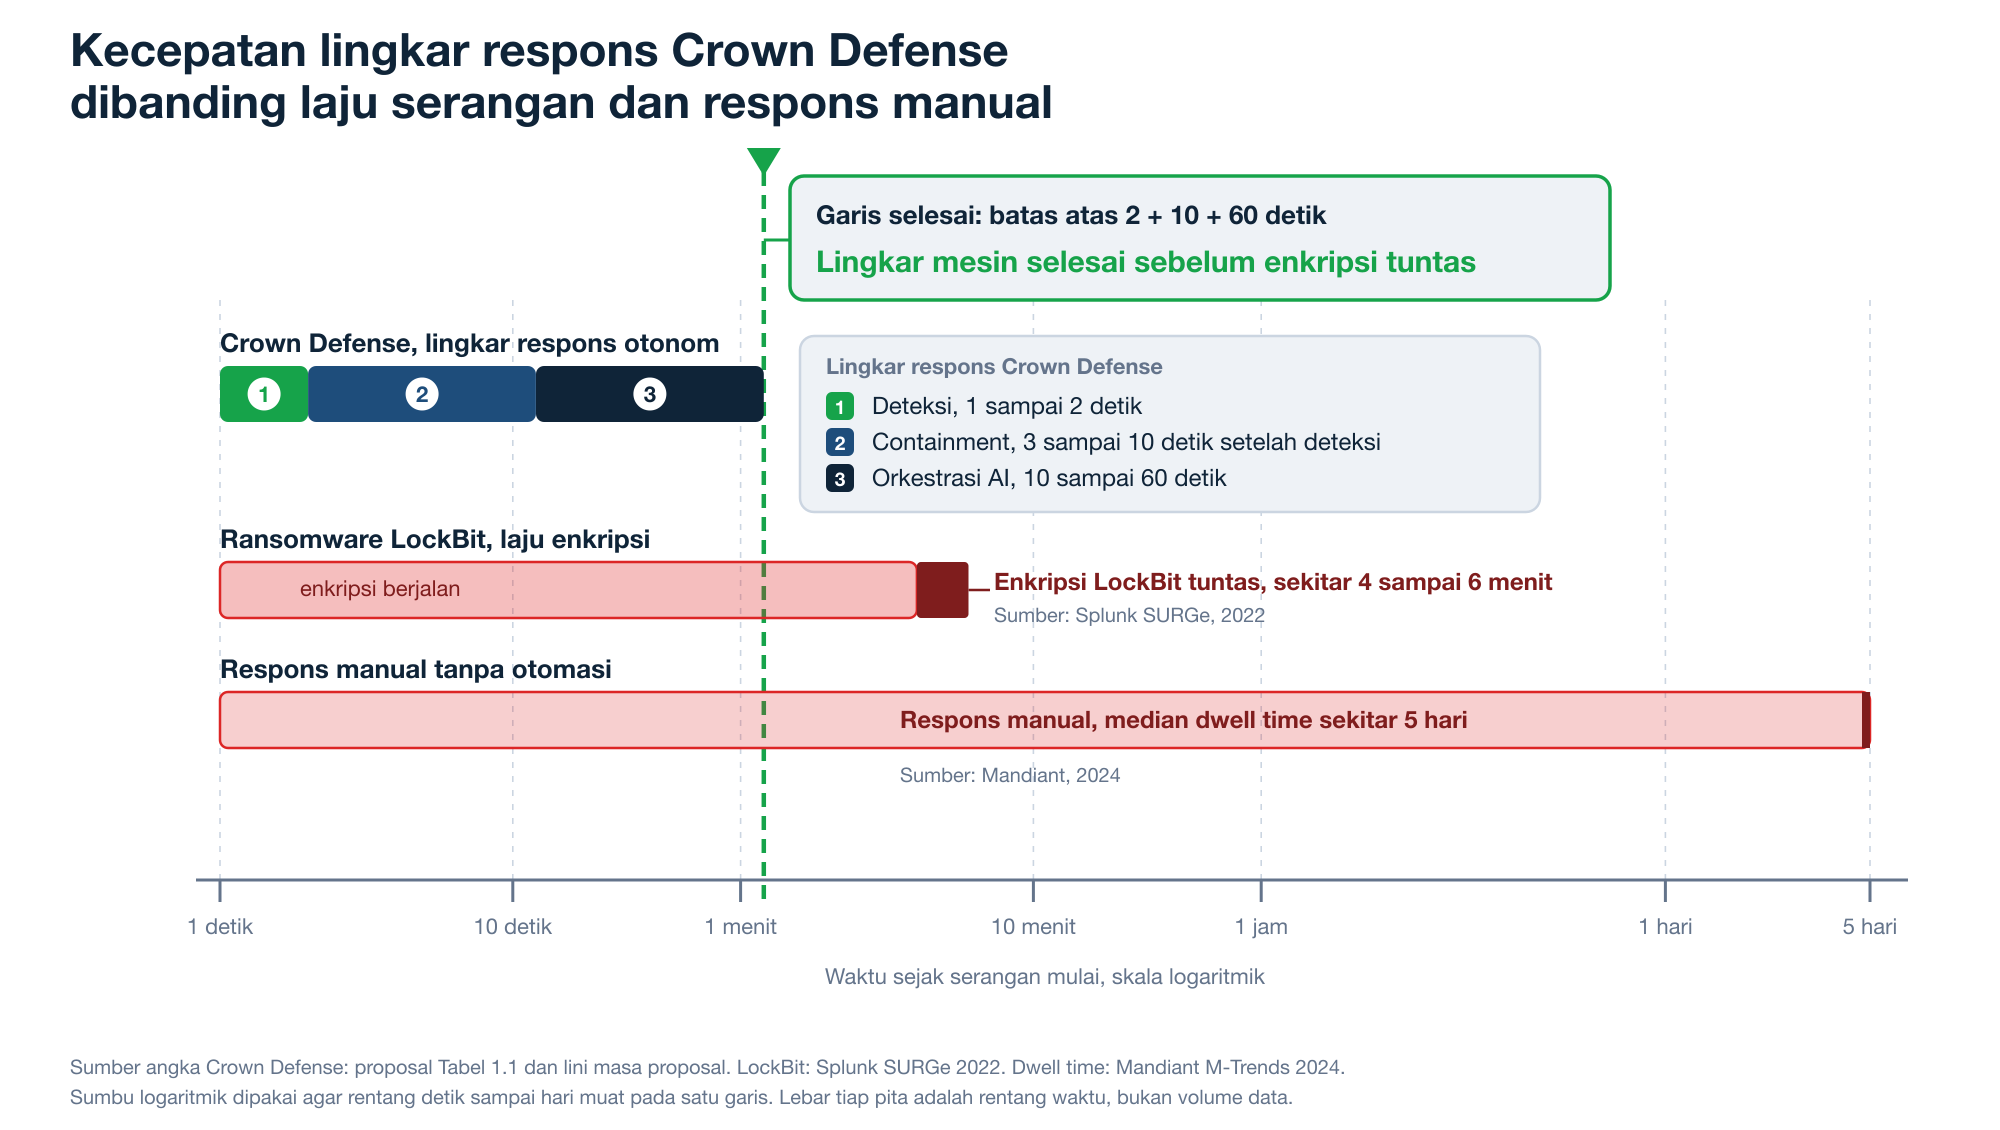
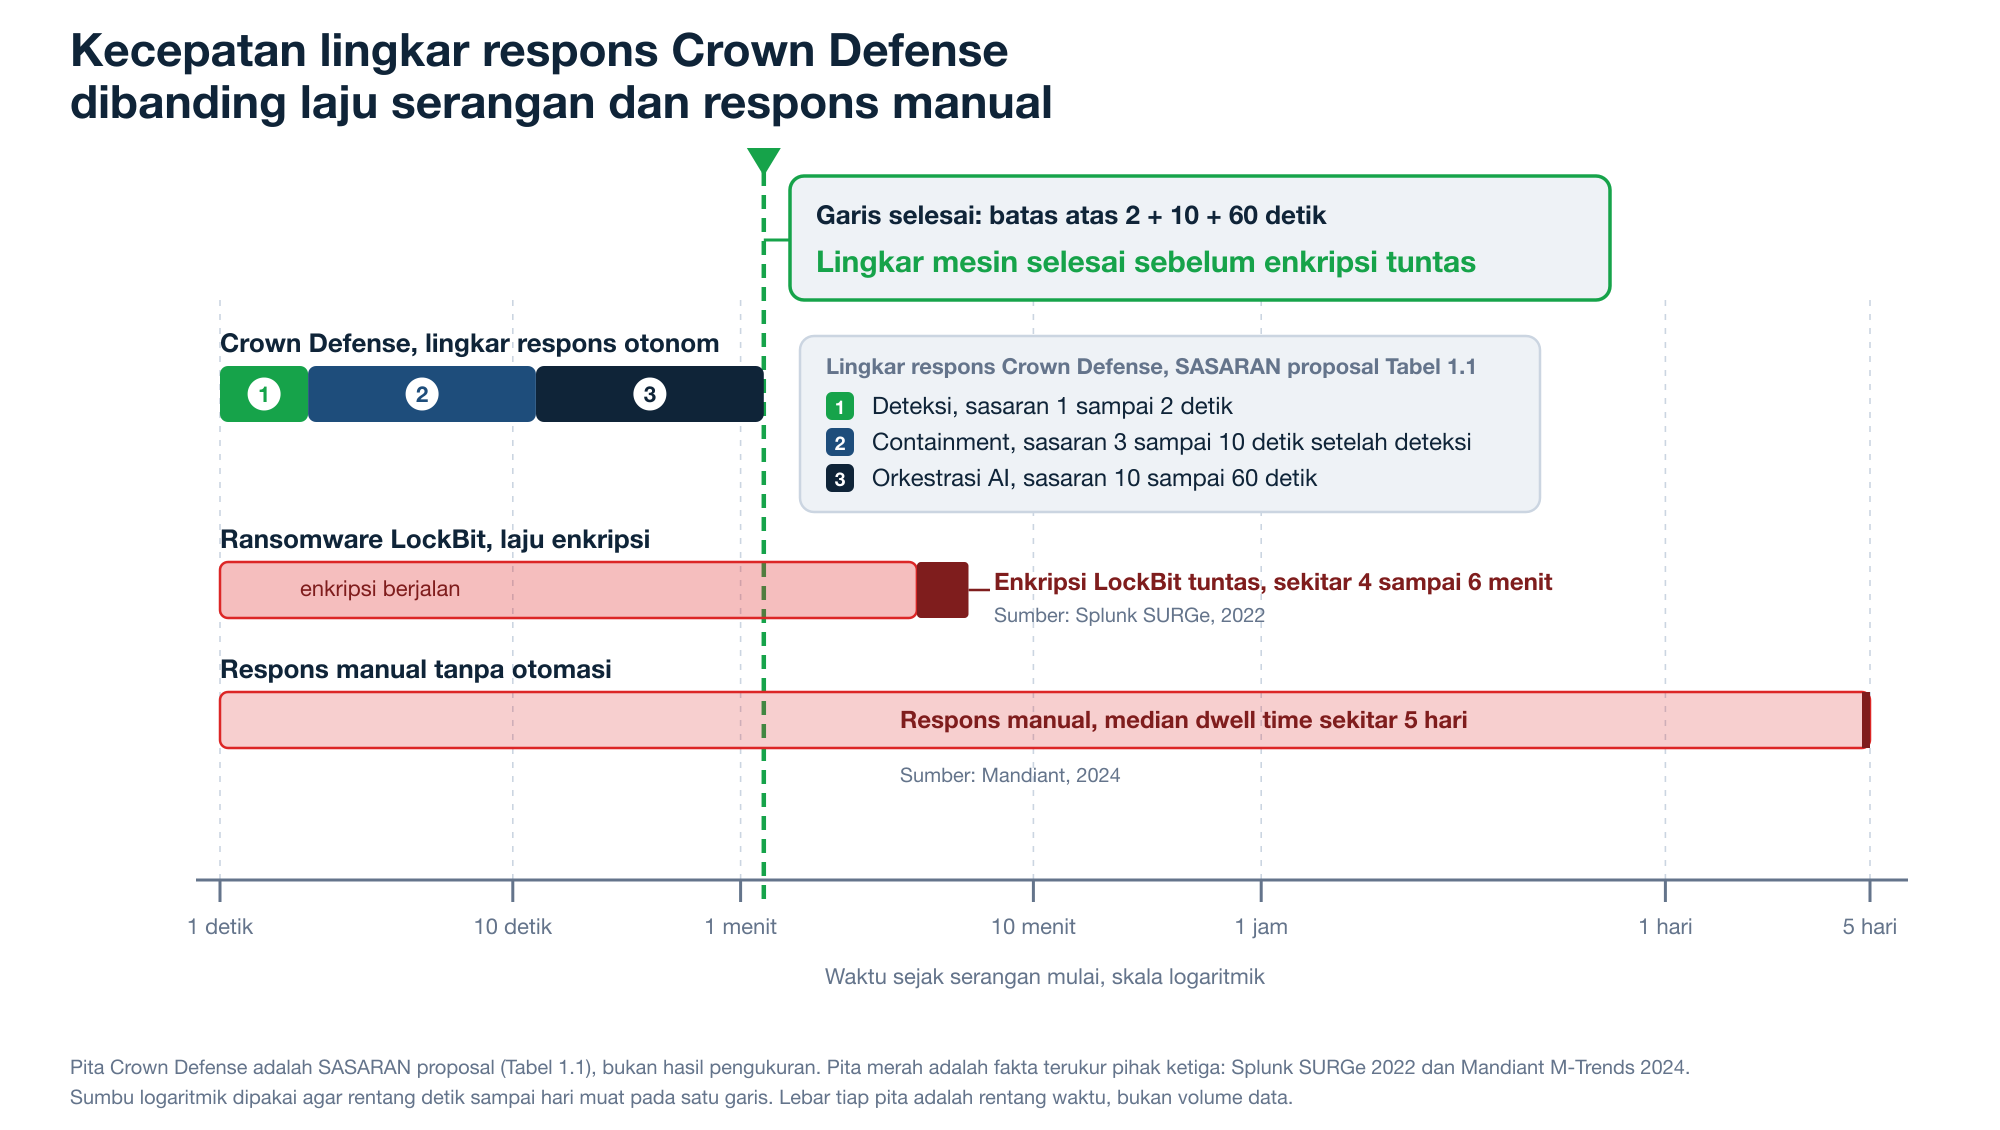
fix(honesty): correct the stale test count everywhere, label DIAGRAM-01 bars as targets
Two findings from the final adversarial review, both real.

STALE TEST COUNT. Every surface said 134 tests in 16 files with 129 passing. The sprint added 40
tests, so the true figure is 174 in 18 files with 169 passing. The worst instance was the live
landing page, which printed "134 uji di 16 berkas" inside a section titled "Setiap angka menyebut
berkas yang membuktikannya". That is the one number a judge can falsify in thirty seconds using the
command the repo itself prints. Corrected in README.md, DISCLOSURE-AI.md, .crown/progress.json and
the landing copy in lib/i18n.ts.

DIAGRAM-01 PRESENTED TARGETS AS MEASUREMENTS. The three Crown Defense bands are proposal targets
from Tabel 1.1, but they sat on a shared axis against two measured third-party facts (Splunk 2022,
Mandiant 2024), so the visual grammar asserted they were the same kind of claim. The words target
and sasaran appeared nowhere on the figure. Each band now reads "sasaran", the legend header names
Tabel 1.1, and the footnote states the asymmetry directly: the Crown Defense bands are proposal
targets and not measurements, the red bands are measured third-party facts. The measured engine
figures are p50 6 ms and p95 333 ms, which are neither of those bands, so labelling matters.

Changed region(s): [[0.031, 0.9292, 0.837, 0.9602], [0.465, 0.3097, 0.744, 0.4336]]

diff --git a/README.md b/README.md
@@ -439,7 +439,7 @@ pnpm typecheck
 pnpm --filter @crown/dashboard dev     # http://localhost:3100
 ```
 
-Tanpa langkah 3 dan 4, lima uji yang bergantung basis data langsung dan model langsung akan gagal; 129 uji sisanya tetap lulus. Rinciannya ada di [Status dan verifikasi](#status-dan-verifikasi).
+Tanpa langkah 3 dan 4, lima uji yang bergantung basis data langsung dan model langsung akan gagal; 169 uji sisanya tetap lulus. Rinciannya ada di [Status dan verifikasi](#status-dan-verifikasi).
 
 ## Perintah
 
@@ -489,7 +489,7 @@ Setiap klaim di bawah ini menyebut perintah atau berkas bukti yang membuktikanny
 | --- | --- | --- |
 | Typecheck bersih | `tsc -b` keluar dengan kode 0 | `pnpm typecheck` |
 | Suite uji | 174 uji di 18 berkas, 169 lulus | `pnpm test` |
-| Uji tanpa basis data dan tanpa kunci model | 129 dari 134 lulus; 5 yang gagal adalah 3 uji store audit basis data langsung, 1 uji pengikatan audit langsung, dan 1 uji integrasi model langsung | `pnpm test` tanpa `pnpm db:up` dan tanpa `DEEPSEEK_API_KEY` |
+| Uji tanpa basis data dan tanpa kunci model | 169 dari 174 lulus; 5 yang gagal adalah 3 uji store audit basis data langsung, 1 uji pengikatan audit langsung, dan 1 uji integrasi model langsung | `pnpm test` tanpa `pnpm db:up` dan tanpa `DEEPSEEK_API_KEY` |
 | Cakupan keluarga dan mode evasi | 24 keluarga, 5 mode evasi | `reports/sim/coverage.json` |
 | Deteksi pada battery simulator aman | 24 dari 24 terdeteksi, laju deteksi 1,0 | `reports/detection/coverage.json` |
 | Berkas hilang sebelum containment | maksimum 2, p95 2, dari anggaran 10 | `reports/detection/coverage.json`, `reports/containment/files_lost.json` |

diff --git a/DISCLOSURE-AI.md b/DISCLOSURE-AI.md
@@ -179,9 +179,9 @@ Seluruh dasar pernyataan ini bisa diperiksa langsung dari repositori ini, tanpa 
 ```bash
 pnpm install
 pnpm typecheck                # tsc -b, keluar dengan kode 0
-pnpm test                     # 134 uji di 16 berkas
+pnpm test                     # 174 uji di 18 berkas
                               # tanpa pnpm db:up dan tanpa DEEPSEEK_API_KEY,
-                              # 129 lulus dan 5 uji yang bergantung layanan luar gagal
+                              # 169 lulus dan 5 uji yang bergantung layanan luar gagal
 ```
 
 Aturan pembangunannya ada di `CLAUDE.md` dan `.claude/rules/`. Penegakannya ada di `.claude/hooks/`.
